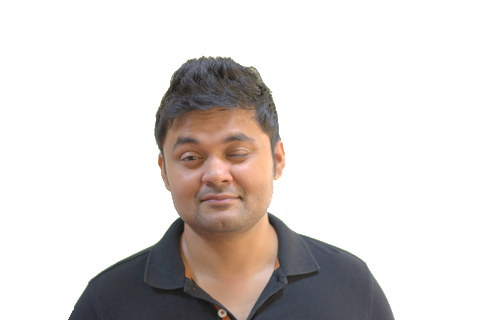
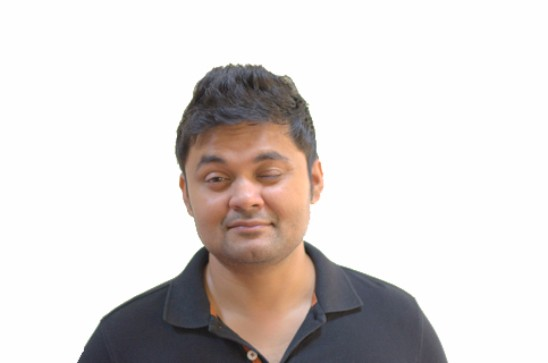
Replaces the images with resized ones

diff --git a/source/stylesheets/pages/_home.scss b/source/stylesheets/pages/_home.scss
@@ -12,6 +12,7 @@
 	}
 	.profile-pic-wrapper{
 		position: relative;
+		min-height: 270px;
 	}
 	.profile-pic-overlay{
 		position: absolute;
